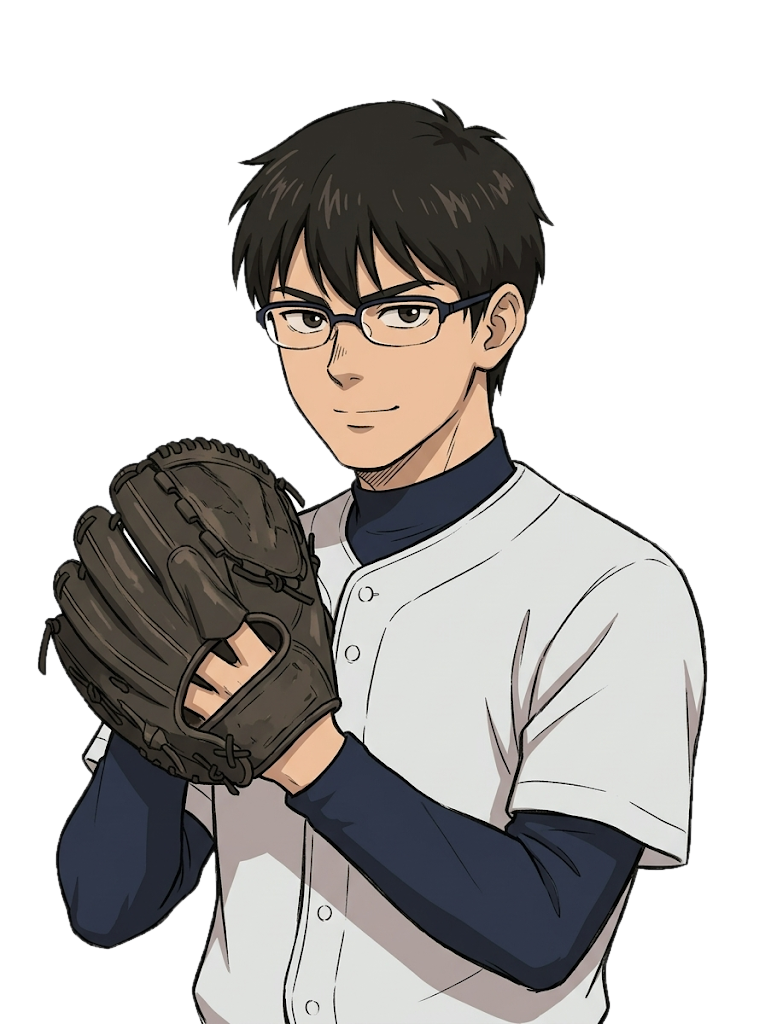
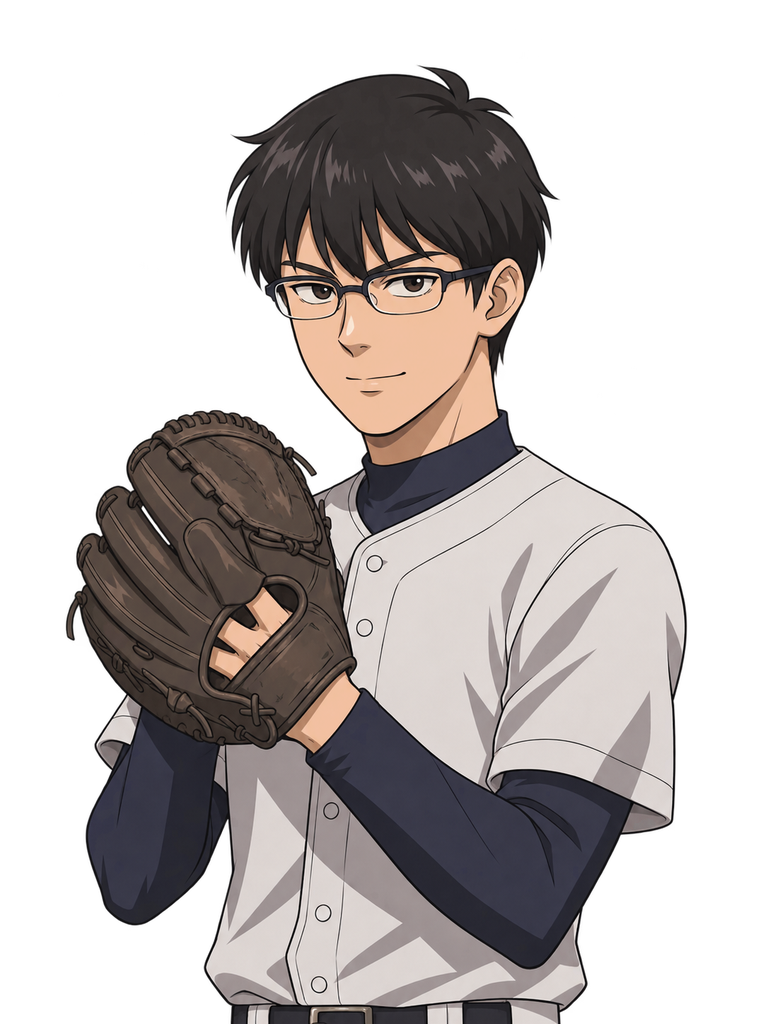
Codex cel-portraits 작업 폴더를 커밋 (합치기용, 작업 폴더 상태 그대로)

Changed region(s): [[0.0301, 0.0625, 0.932, 1.0], [0.7216, 0.5312, 0.7516, 0.5625]]

diff --git a/docs/refs/portraits/README.md b/docs/refs/portraits/README.md
@@ -1,0 +1,44 @@
+# 인물 일러스트 셀 채색
+
+사용자가 고른 [하린 1번 시안](harin-style-01.png)의 선과 명암을 기준으로 삼았다. 기존 인물의 복장과 소품은 이전 게임 에셋을 참고했다. 하린은 1번 시안의 인물 디자인을 그대로 사용했다.
+
+Codex의 GPT 이미지 생성으로 인물 14명과 소율의 표정 3종을 개별 생성했다. 투명 배경 원본은 [originals](originals/)에 보관하고, 게임용 PNG는 알파를 유지해 높이 1024px 이내로 줄였다.
+
+## 기본 인물 프롬프트
+
+공통 문장 뒤에 각 인물의 문장을 붙였다. 첫 참고 그림은 하린 1번 시안이고, 두 번째는 교체 전 같은 파일 이름의 인물 그림이다.
+
+```text
+Create one separate game dialogue portrait, 3:4 tall canvas, half-body to hips with complete head and uncropped elbows and accessories, natural Korean face and proportion. The FIRST image is the approved style reference: match its clean anime cel shading, fine dark linework, crisp broad shadow shapes, warm neutral skin, restrained highlights and subdued colors. The SECOND image is the existing character design for this portrait; preserve recognizable face, hair, costume and pose unless specifically instructed. Transparent background, clean cutout, no background motifs or glow, top of head roughly 8% down, bottom edge crops the torso cleanly. No text, signatures or branding.
+```
+
+| 파일 | 인물별 추가 문장 |
+|---|---|
+| `neighbor.png` | Harin, 16-year-old calm art student with long black hair and beige coat, pale blue shirt, dark diagonal drawing tube. Reproduce the exact face, hair, subtle smile, pose and outfit from the FIRST image. Do not use the second image's old design. |
+| `manager.png` | Soyul, energetic 17-year-old baseball team data manager, messy black high ponytail, navy school cardigan with rolled sleeves, blue scorebook held to her chest, playful toothy grin. |
+| `batting_coach.png` | Korean male high school batting coach in his early 30s, navy cap and tracksuit, cheerful and talkative, white baseball in one hand and stopwatch on neck. |
+| `buddy.png` | Park Junsu, 16-year-old lively catcher, short cropped hair, sturdy build, navy catcher chest protector over white school jersey, bright grin, fist raised chest high. |
+| `coach.png` | Coach Oh, reserved Korean man in his late 40s with a weathered face, navy cap and dark navy coaching jacket, arms folded, wry half-smile. |
+| `jaehyuk.png` | Yun Jaehyeok, focused 17-year-old pitcher and future captain, short dark hair with side fringe, thin rectangular glasses, white jersey over navy compression shirt, worn brown glove at chest. |
+| `junior.png` | Korean 16-year-old rookie infielder, youthful round face, messy dark hair under a navy cap, white jersey with navy trim, dark fielding glove, enthusiastic smile. |
+| `minjae.png` | Jeong Minjae, Korean 17-year-old shortstop, angular face and messy black fringe, white jersey over navy undershirt, one hand holding the strap of a navy equipment bag, guarded quiet expression. |
+| `mom.png` | Korean mother and neighborhood restaurant owner in her early 40s, soft round glasses, brown-black hair in a low loose bun, beige knit and muted checked apron, welcoming gentle smile. |
+| `reporter.png` | Seo Jian, sharp 17-year-old Korean high school broadcasting club student, long chestnut hair, brown eyes, navy school blazer with no logo and burgundy armband, compact black camera held at chest, confident friendly expression. |
+| `rival.png` | Kang Taeo, 16-year-old Korean rival shortstop, narrow dark eyes, straight black fringe under a deep navy cap, deep navy team jersey, black batting gloves, wood bat angled over one shoulder, calm unsmiling face. |
+| `scout.png` | Na Seongman, discerning Korean male baseball scouting team leader in his late 40s, short brushed-back salt-and-pepper hair, navy warmup jacket with muted gold piping, pen and clipboard, confident slight smile. |
+| `senior.png` | Han Doyun, 18-year-old Korean captain, short dark buzz cut and thick eyebrows, white jersey over navy undershirt, arms folded, steady serious expression. |
+| `seongho.png` | Kim Seongho, 18-year-old Korean reserve outfielder, slightly shaggy dark fringe, navy warmup jacket over white jersey, one hand at the back of his neck, faint bashful smile. |
+
+## 소율 표정 프롬프트
+
+첫 참고 그림은 새 소율 기본 원본이다. 아래 공통 문장 뒤에 각 표정의 문장을 붙였다.
+
+```text
+Create one dialogue sprite expression edit of the FIRST image, preserving her exact identity and style. Lock canvas dimensions, position, head angle, silhouette, hair, pose, fingers, clothes, scorebook, colors, and lighting; keep true transparent background. Change ONLY her eyebrows, eyes and mouth to this expression:
+```
+
+| 파일 | 표정별 추가 문장 |
+|---|---|
+| `manager_happy.png` | a very happy laughing grin with a bigger open smile, eyes joyfully squeezed into crescents, playful energy. |
+| `manager_pout.png` | a lightly sulky playful pout, lips pursed to one side, brows gently lowered, eyes slightly narrowed. |
+| `manager_surprised.png` | a spontaneous surprised reaction, small open O-shaped mouth, visibly widened eyes, raised eyebrows. |

diff --git a/godot/art/README.md b/godot/art/README.md
@@ -12,19 +12,23 @@
 
 | 파일 | 인물 (docs/worldview.md) | 그림 |
 |---|---|---|
-| `neighbor.png` | 하린 (소꿉친구, 미대 입시생) | 있음 (2026-11-02) |
-| `mom.png` | 엄마 (은하식당) | 있음 (2026-11-02) |
-| `coach.png` | 오 감독 | 있음 (2026-11-02) |
-| `buddy.png` | 박준수 (포수, 입부 동기) | 있음 (2026-11-02) |
-| `senior.png` | 한도윤 (3학년 주장) | 있음 (2026-11-02) |
-| `minjae.png` | 정민재 (2학년 유격수 → 2루수) | 있음 (2026-11-02) |
-| `scout.png` | 나성만 (태성 썬더스 스카우트 팀장) | 있음 (2026-11-02) |
-| `seongho.png` | 김성호 (3학년 외야수) | 있음 (2026-11-02) |
-| `jaehyuk.png` | 윤재혁 (2학년 투수, 주장) | 있음 (2026-11-02) |
-| `manager.png` (+ `_happy` · `_pout` · `_surprised`) | 소율 (2학년 매니저) | 옛 캐릭터 그림 — 교체 대상 |
-| `rival.png` | 강태오 (청운고) | 옛 캐릭터 그림 — 교체 대상 |
-| `batting_coach.png` · `junior.png` · `reporter.png` | 2·3학년 옛 이야기 인물 | 옛 그림 |
+| `neighbor.png` | 하린 (소꿉친구, 미대 입시생) | 셀 채색 |
+| `mom.png` | 엄마 (은하식당) | 셀 채색 |
+| `coach.png` | 오 감독 | 셀 채색 |
+| `buddy.png` | 박준수 (포수, 입부 동기) | 셀 채색 |
+| `senior.png` | 한도윤 (3학년 주장) | 셀 채색 |
+| `minjae.png` | 정민재 (2학년 유격수 → 2루수) | 셀 채색 |
+| `scout.png` | 나성만 (태성 썬더스 스카우트 팀장) | 셀 채색 |
+| `seongho.png` | 김성호 (3학년 외야수) | 셀 채색 |
+| `jaehyuk.png` | 윤재혁 (2학년 투수, 주장) | 셀 채색 |
+| `manager.png` (+ `_happy` · `_pout` · `_surprised`) | 소율 (2학년 매니저) | 셀 채색, 표정 포함 4장 |
+| `rival.png` | 강태오 (청운고) | 셀 채색 |
+| `batting_coach.png` | 타격 코치 | 셀 채색 |
+| `junior.png` | 내야수 후배 | 셀 채색 |
+| `reporter.png` | 서지안 (방송부) | 셀 채색 |
 | `agent.png` · `butcher.png` · `college_coach.png` · `local_reporter.png` | 2·3학년 조연 | 없음 |
+
+하린 1번 시안을 기준으로 통일한 원본과 프롬프트는 [인물 일러스트 참고 자료](../../docs/refs/portraits/README.md)에 있다.
 
 ## 배경 `backgrounds/<id>.png`
 
